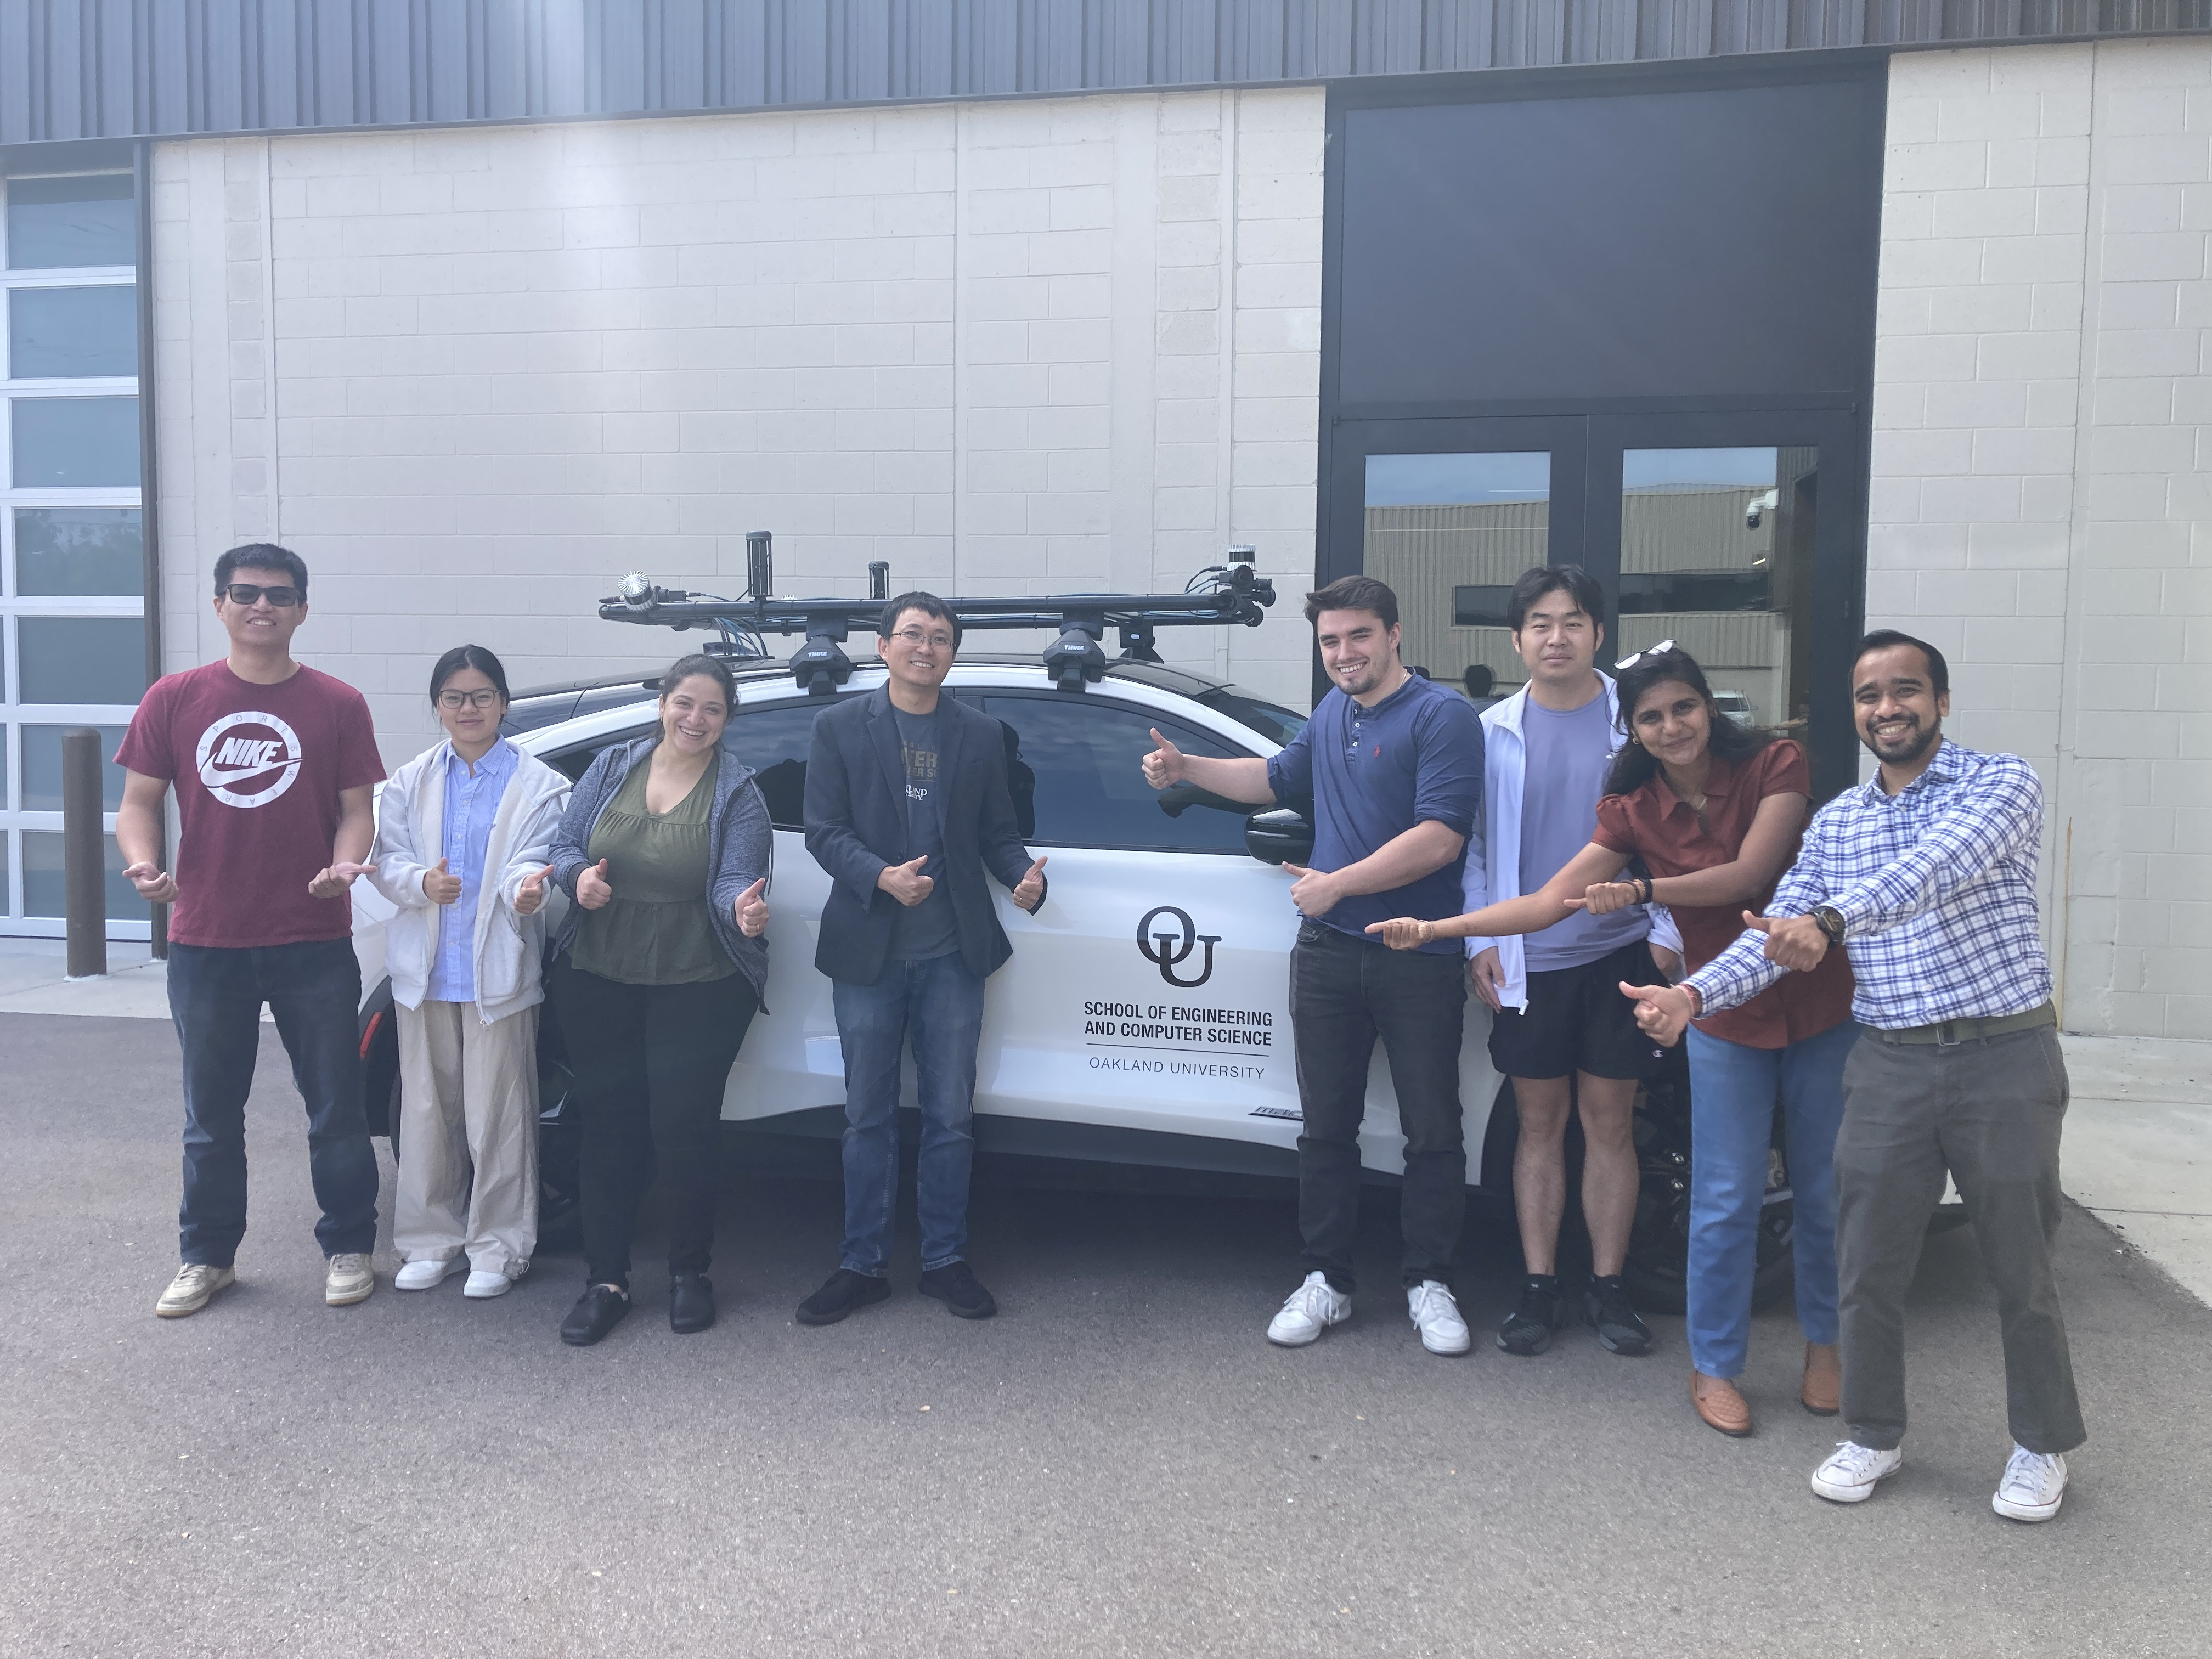
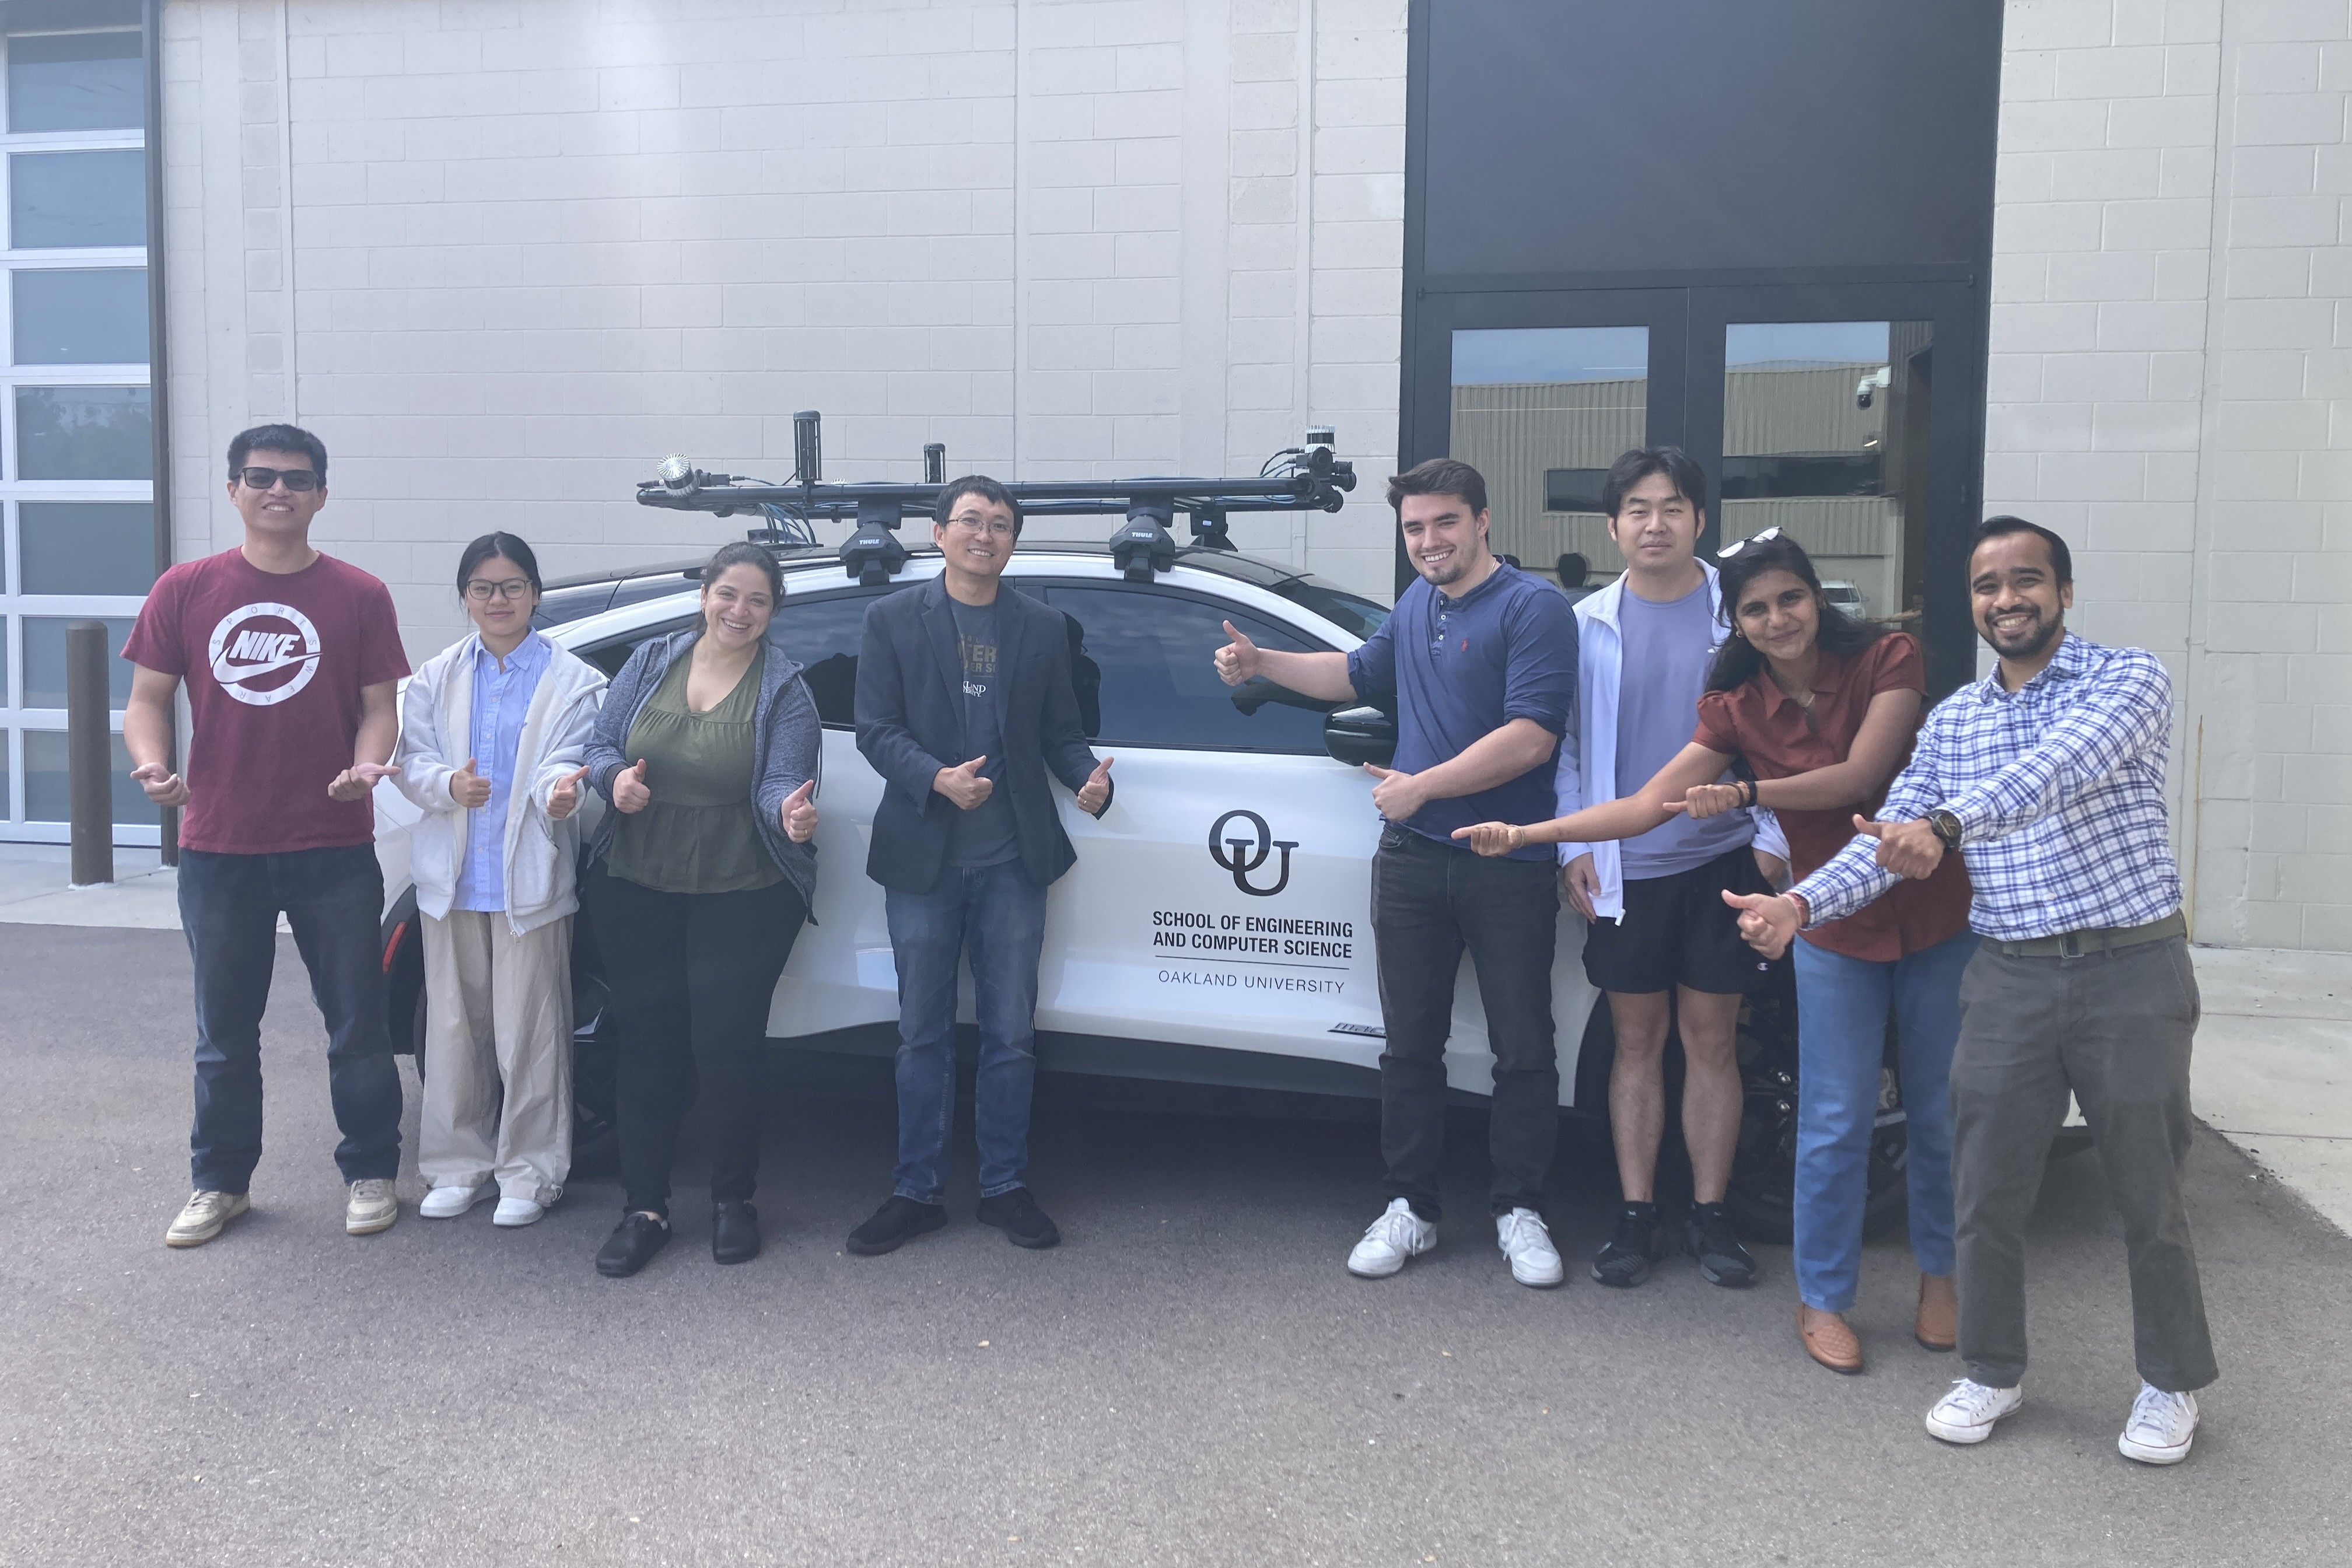
update mach-e photo

diff --git a/index.html b/index.html
@@ -115,6 +115,8 @@ His research interests include advanced control and optimization, model predicti
 
 <tr>
 <td align="right"><img src="OU-FounderDay-2025.jpg",  alt="" width=450pt>&nbsp;<p>(Outstanding Graduate Mentor Award at 2025 OU Founders' Day)</p></td>
+
+<td align="right"><img src="Mach-E.jpg",  alt="" width=450pt>&nbsp;<p>(Ford Mustang Mach-E with Dataspeed By-Wire System)</p></td>
 </tr>
 
 